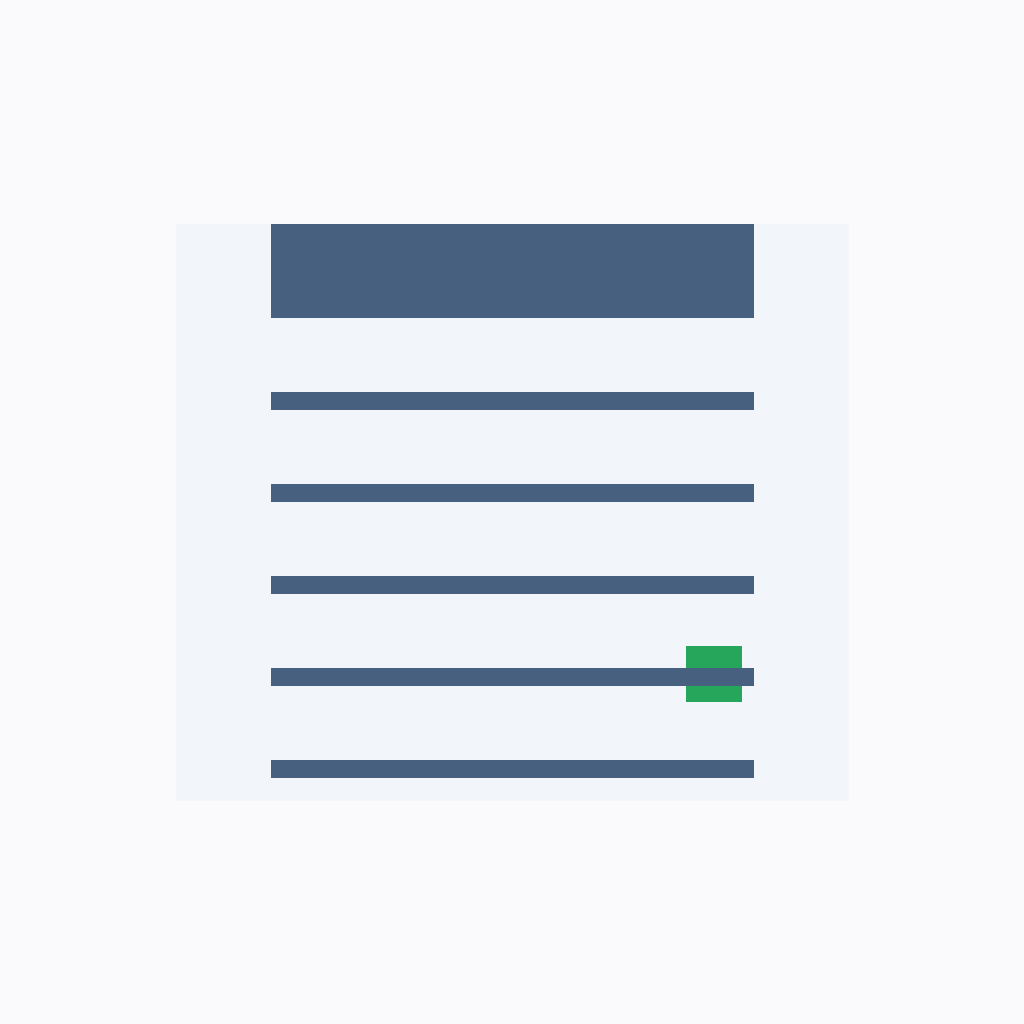
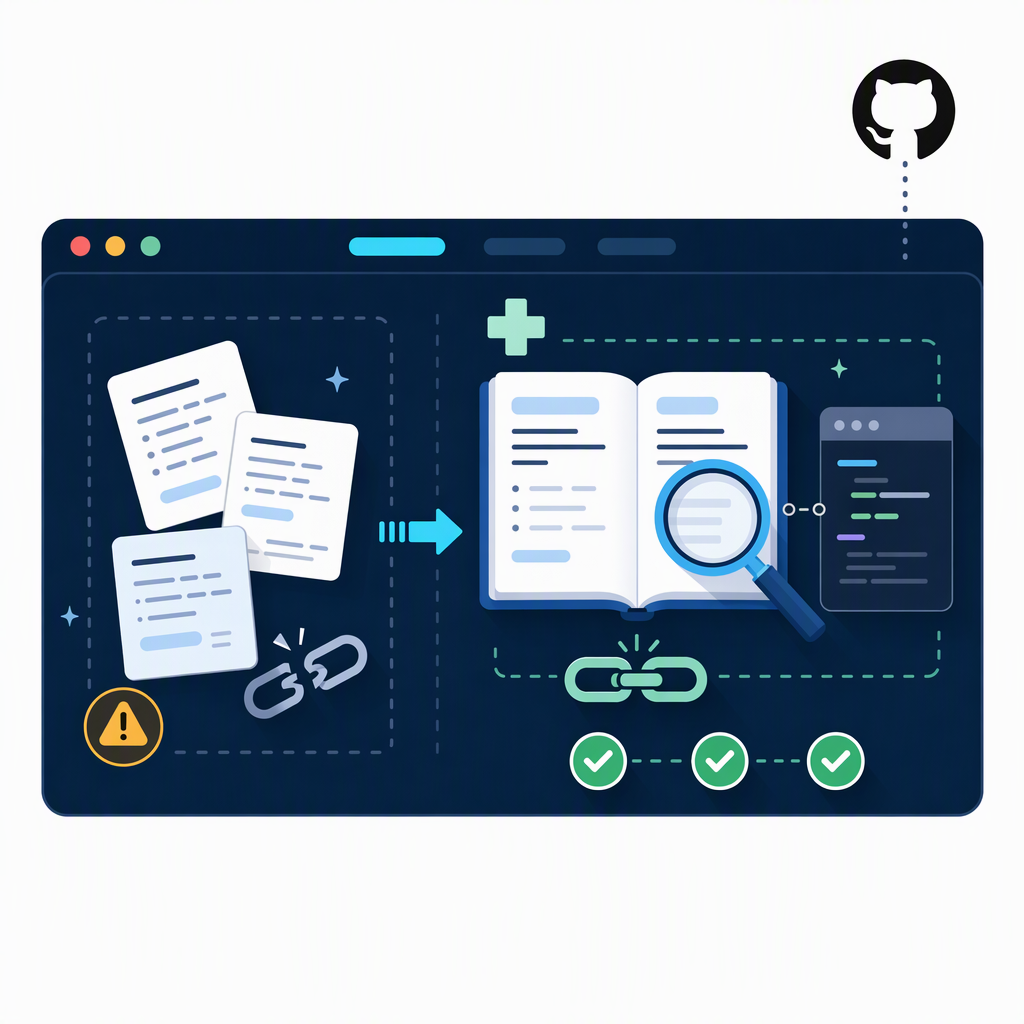
Add Azure GPT Image 2 artwork for doc-doctor
Replace the placeholder with validated 1024x1024 artwork and record its exact approved prompt, provider, and image digest.

Copilot-Session: 8b26b74b-4921-45f7-add5-a751c1ff81b0

diff --git a/docs/thumbnail-prompts.md b/docs/thumbnail-prompts.md
@@ -357,3 +357,14 @@ deployment: gpt-image-2
 endpoint: https://jong-image-westus3.openai.azure.com
 apiVersion: 2025-04-01-preview
 SHA-256: 0484ad91bd4dd73793e42f8ec09b58f3158b7c8b201601ed1e0b1e629974a230
+
+## doc-doctor (f19845f36ba1)
+
+Prompt: "Flat vector illustration, pure white background, exactly 1024x1024, centered composition for a documentation doctor agent skill. One large rounded dark-navy documentation editor window is the hero surface. Inside it, show a clear left-to-right transformation: on the left, slightly misaligned document cards with abstract text dashes, an amber warning badge and a broken chain-link icon; a simple cyan arrow leads to the right, where a tidy open documentation booklet aligns with a compact code panel, joined by a repaired chain link and three small circular green check badges. A large simple magnifying glass over the booklet signals careful accuracy checking; a small mint medical cross is a subtle secondary cue, not a logo. Use teal and sky-blue accents with health green and restrained amber, clean modern rounded shapes, soft long shadows, a few subtle dashed guide lines and tiny sparkles. Place a small black GitHub Octocat mark at the upper right connected to the editor by one dotted tether; it is never the main subject. Diagram treatment: no readable text; document labels are short abstract dashes and rounded pills. Strong simple silhouettes, generous white space, crisp professional composition readable when downscaled to 175 pixels. Negative list: no words, letters, numerals, fake readable labels, watermarks, photorealism, 3D rendering, clutter, extra magnifying glasses, stethoscope tubes, or floating disconnected objects."
+
+Provider: azure-openai
+model: gpt-image-2
+deployment: gpt-image-2
+endpoint: https://jong-image-westus3.openai.azure.com
+apiVersion: 2025-04-01-preview
+SHA-256: f19845f36ba138e723b42b32710dda6c31c43cb61e6fccfa98728b8c29bfd3a7
